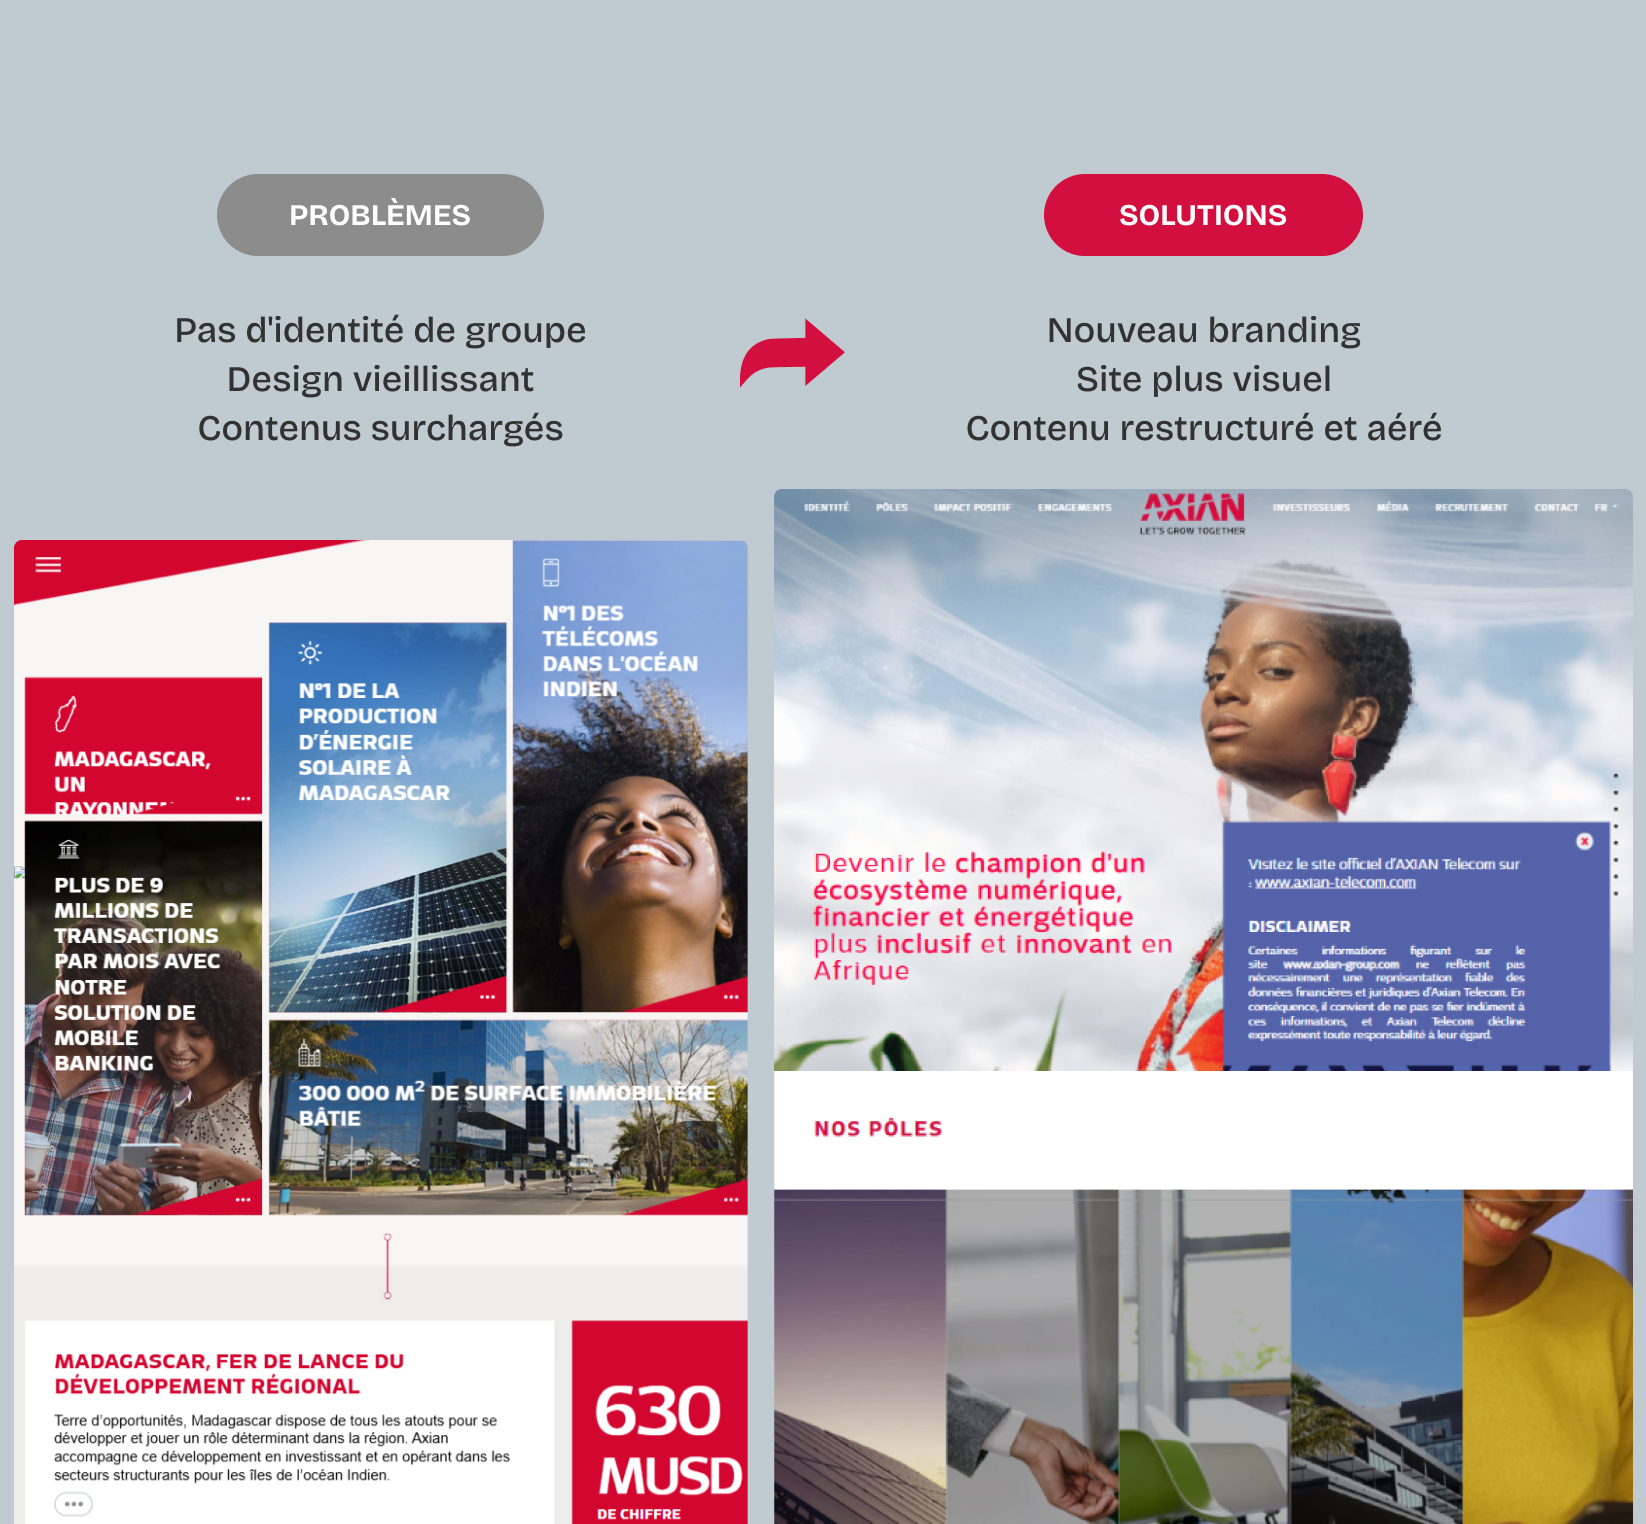
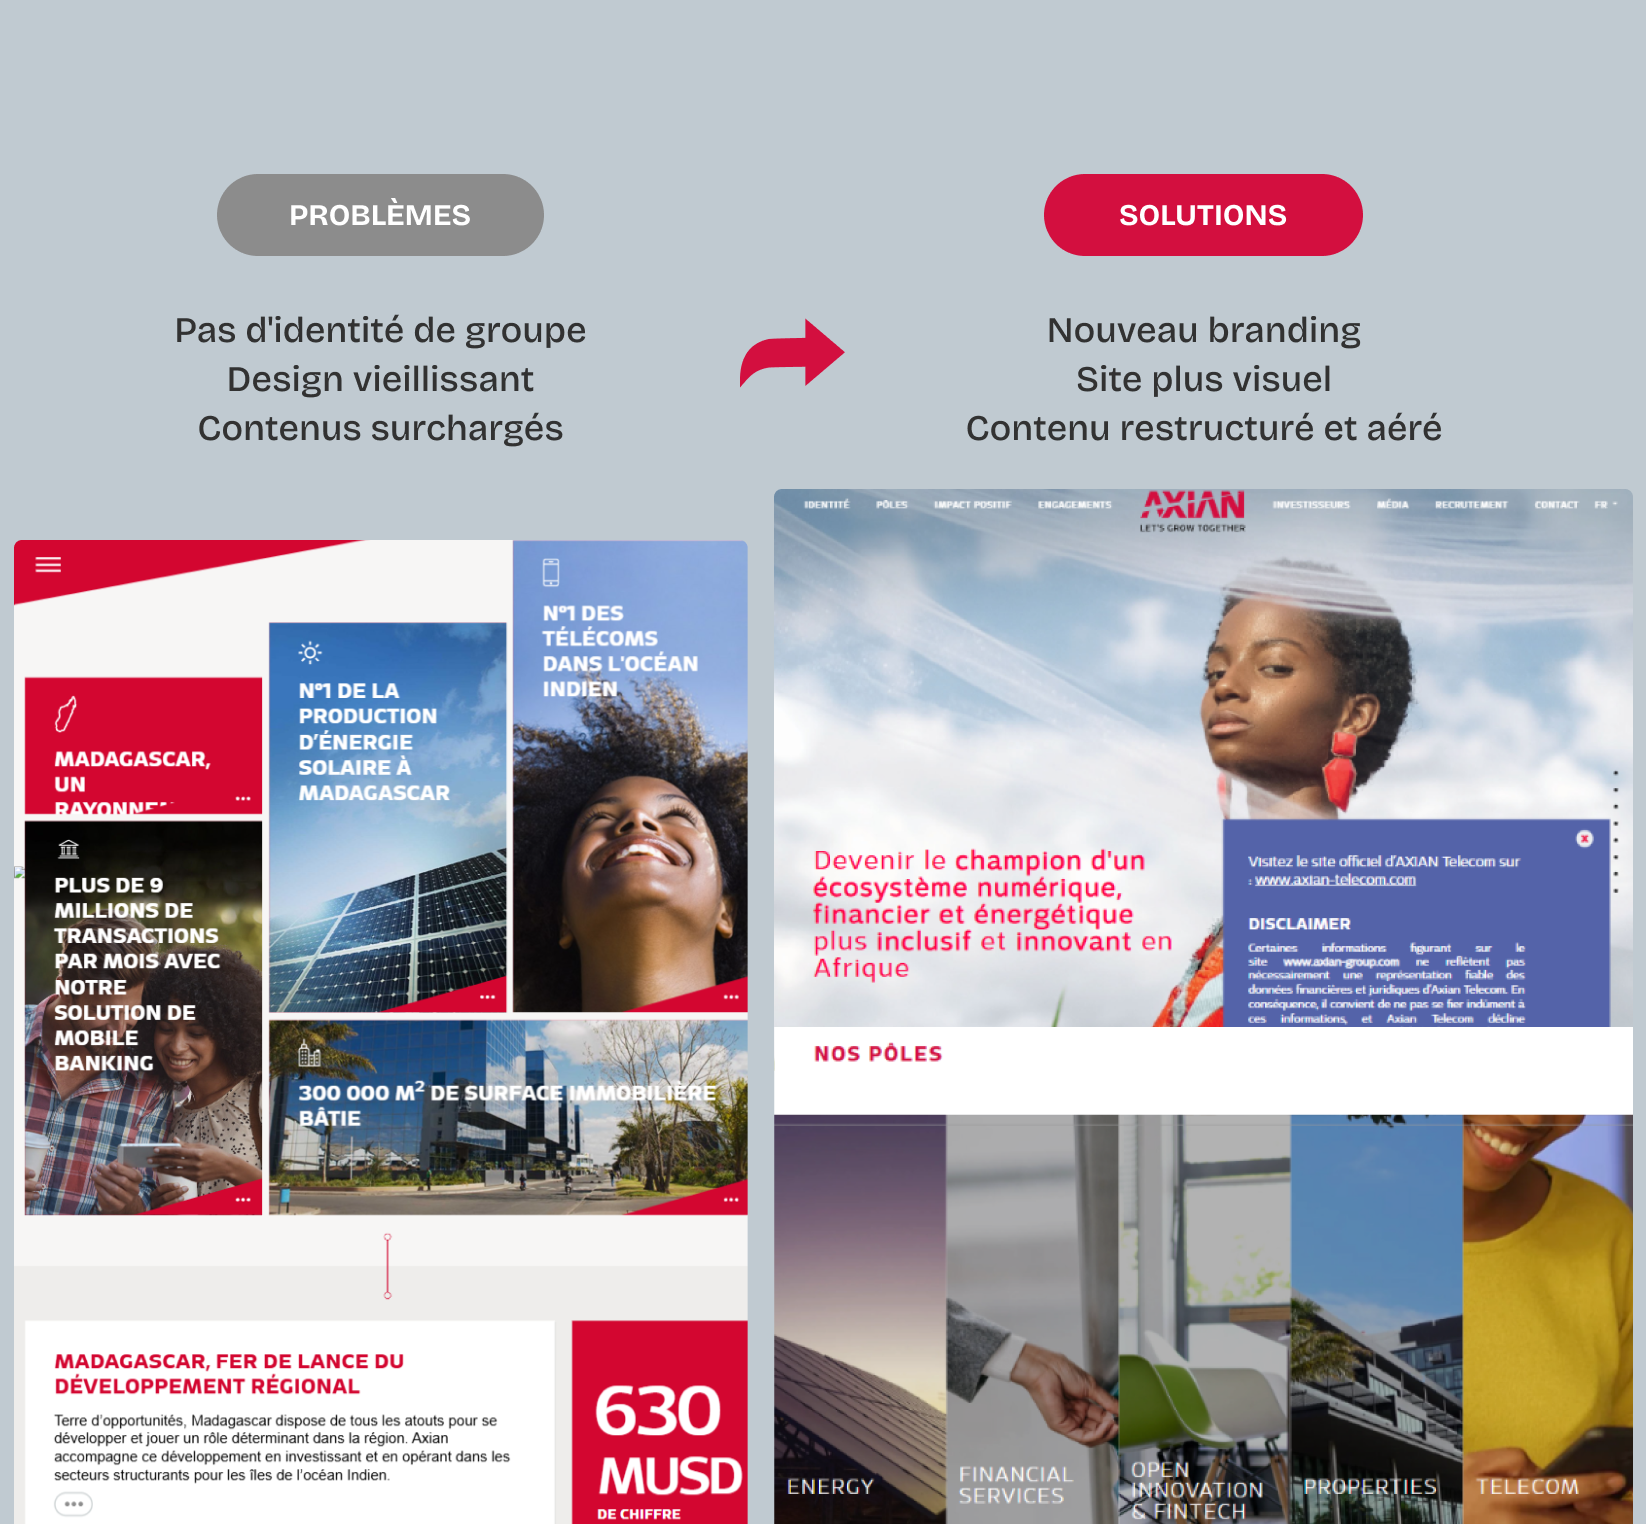
Changement de la phrase d'accroche

diff --git a/index.html b/index.html
@@ -5,7 +5,7 @@
     <meta name="viewport" content="width=device-width, initial-scale=1.0">
     
     <!-- SEO Meta Tags -->
-    <title>Jacob Radonirina - Product Designer UX/UI & Chef de Projet Digital</title>
+    <title>Jacob Radonirina - Product Designer UX/UI</title>
     <meta name="description" content="Product Designer freelance avec 10 ans d'expérience. Design UX/UI, design systems et stratégie produit pour PME et startups B2B. Portfolio Tango.lu, Axian Group. Basé au Luxembourg.">
     <meta name="keywords" content="product designer, UX UI designer, design system, freelance Luxembourg, chef de projet digital, design thinking, identité visuelle, audit UX, fintech design">
     <meta name="author" content="Jacob Radonirina">
@@ -291,7 +291,7 @@
                         </div>
                 </div>
             </div>
-              <!-- rIGHT SIDE -->
+              <!-- Right Side -->
             <div class="left-side">
                 <div class="content">
                     <h1>Transformez votre identité de marque en <span> expérience digitale mémorable</span></h1>
@@ -379,10 +379,29 @@
             <div class="portfolio-card" data-index="0">
                
                 <div class="portfolio-right">
-                    <div class="portfolio-image" id="mytango-1"><img src="Captures/tango b&A.png"/></div>
-                    <div class="portfolio-image hidden" id="mytango-2" style="background: linear-gradient(135deg, #667eea, #764ba2);"><img src="Captures/tangoapp-stats.png"/></div>
-                    <div class="portfolio-image hidden" id="mytango-3" style="background: linear-gradient(135deg, #f093fb, #f5576c);"><img src="Captures/tangoapp-enjoy.png"/></div>
-                    <div class="portfolio-image hidden" id="mytango-4" style="background: linear-gradient(135deg, #4facfe, #00f2fe);"><img src="Captures/Simplification d'un parcours-3.png"/></div>
+                    <div class="portfolio-image" id="mytango-1">
+                        <img src="Captures/tango b&A.png" 
+                        alt="comparaison avant/après refonte interface : 
+                        multiples swipes et boutons flous remplacés par switch interface clair et détails visibles 
+                        (écrans data de l'offre Tango smart M 16.7GB/20GB à gauche et offre Go mobile M 18GB/35GB à droite)" loading="lazy"/>
+                    </div>
+                    <div class="portfolio-image hidden" id="mytango-2" style="background: linear-gradient(135deg, #667eea, #764ba2);">
+                        <img src="Captures/tangoapp-stats.png" 
+                        alt="Infographie promotionnelle de l'application Tango : captures d'écran app mobile (accueil avec data 18GB, solde, La Roue),
+                         notes App Store 4.5 et Google Play 3.5 avec mentions 'Améliorée - Notes positives majoritaires'." loading="lazy"/>
+                    </div>
+                    <div class="portfolio-image hidden" id="mytango-3" style="background: linear-gradient(135deg, #f093fb, #f5576c);">
+                        <img src="Captures/tangoapp-enjoy.png" alt="Capture d'écran de l'application mobile Tango montrant l'écran d'optimisation du 
+                        jeu La Roue, avec trois étapes : 1. Simplification du parcours et clarification des messages d'onboarding, 
+                        2. Correction de la consistance visuelle, 3. Redirection vers le quiz La Roue après le parcours, 
+                        incluant des boutons comme Support, Opérations, Bills et Enjoy." loading="lazy"/>
+                    </div>
+                    <div class="portfolio-image hidden" id="mytango-4" style="background: linear-gradient(135deg, #4facfe, #00f2fe);">
+                        <img src="Captures/Simplification d'un parcours-3.png" 
+                        alt="Infographie du processus de conception de l'application Tango : cartographie des contraintes (icônes de users, graphs, code) 
+                        menant à une conception incrémentale (calendrier mensuel), avec impact validé sur la solution (gestion simplifiée des dysfonctionnements 
+                        pour les équipes et utilisateurs finaux, complexité non ressentie)" loading="lazy"/>
+                    </div>
                 </div>
                  <div class="portfolio-left">
                     <div>
@@ -419,10 +438,35 @@
             <div class="portfolio-card" data-index="1">
                 
                 <div class="portfolio-right">
-                    <div class="portfolio-image" id="tangoweb-1"><img src="Captures/tangoweb-1-avant.png"/></div>
-                    <div class="portfolio-image hidden" id="tangoweb-2" style="background: linear-gradient(135deg, #667eea, #764ba2);"><img src="Captures/tangoweb-2-après.png"/></div>
-                    <div class="portfolio-image hidden" id="tangoweb-3" style="background: linear-gradient(135deg, #667eea, #764ba2);"><img src="Captures/parcours-avant-après.png"/></div>
-                    <div class="portfolio-image hidden" id="tangoweb-4" style="background: linear-gradient(135deg, #667eea, #667eea);"><img src="Captures/tango-4.png"/></div>
+                    <div class="portfolio-image" id="tangoweb-1">
+                        <img src="Captures/tangoweb-1-avant.png"
+                        alt="Interface web Tango avant refonte : page offre Tango Smart pour abonnement téléphone 5G sans engagement, offre La Kidwatch (montre connectée) à gauche
+                        et encard de selection d'abonnement à droite choix abonnement Smart Unlimited+ à 
+                        80€ pour 50GB data (choix 50dB volume), en dessous congiguration de data, choix possibles (Illimités,  25Gb, 15GB, 7Gb 
+                        et 4GB), en dessous choix data incluse en europe (data 4GB en Europe +) boutons 'le plus de l'offre' et  'Choisir du forfait' 
+                        et engagement 24 mois" loading="lazy"/>
+                    </div>
+                    <div class="portfolio-image hidden" id="tangoweb-2" style="background: linear-gradient(135deg, #667eea, #764ba2);">
+                        <img src="Captures/tangoweb-2-après.png"
+                        alr="Interface web Tango après refonte pour offre GO Mobile : forfait GO Mobile Unlimited extra à 60€ avec data illimité 
+                        + 80 GB de volumes en Europe, USA et Canad (autres choix illimité +70BG en europe, 30GB,20GB et 5GB à prix décroissants), 
+                        choix sans smartphone, options déjà client Tango fibre (30BG en plus et remise de 3€/mois), exclusivités digitales,
+                         bouton rose 'Choisir ce forfait'" loading="lazy"/>
+                    </div>
+                    <div class="portfolio-image hidden" id="tangoweb-3" style="background: linear-gradient(135deg, #667eea, #764ba2);">
+                        <img src="Captures/parcours-avant-après.png"
+                        alt="Comparaison parcours d'inscription Tango avant/après refonte : en haut (avant), étapes Partner - 
+                        Coordonnées/Contrat - Livraison/Installation - Récapitulatif/Paiement - Confirmé (cercles bleus connectés) ; 
+                        en bas (après), étapes Adresse - Modem - Installation - Confirmation (cercles bleus avec coche finale). 
+                        Diagramme linéaire illustrant simplification du flux utilisateur" loading="lazy"/>
+                    </div>
+                    <div class="portfolio-image hidden" id="tangoweb-4" style="background: linear-gradient(135deg, #667eea, #667eea);">
+                        <img src="Captures/tango-4.png"
+                        alt="Design system Tango : checklist validée (Consistant, Scalable, Bien nommé, Organisé, App/site/web self-care) avec menu Spacing/Border Radius ; 
+                        exemples boutons variés (bleus, verts, blancs) ; palette couleurs UI structurée en grille 
+                        (nuances bleu/vert/rose/jaune/violet/orange/gris 
+                        pour états primary/secondary/success/warning/error)" loading="lazy"/>
+                    </div>
                 </div>
 
                  <div class="portfolio-left">
@@ -459,10 +503,31 @@
             <!-- Card 3: Axian -->
             <div class="portfolio-card" data-index="2">
                <div class="portfolio-right">
-                    <div class="portfolio-image" id="axian-1" style="background: #D30F3F;"><img src="Captures/Axian-2.png"/></div>
-                    <div class="portfolio-image hidden" id="axian-2" style="background: #D30F3F;"><img src="Captures/Axian.png"/></div>
-                    <div class="portfolio-image hidden" id="axian-3" style="background: #C0CAD1;"><img src="Captures/Axian-website.png"/></div>
-                    <div class="portfolio-image hidden" id="axian-4" style="background: #151D42;"><img src="Captures/créatives.jpg"/></div>
+                    <div class="portfolio-image" id="axian-1" style="background: #D30F3F;">
+                        <img src="Captures/Axian-2.png"
+                        alt="Poster corporate Axian Group: logo rouge, vision business 'Devenir le champion d'un écosystème numérique, 
+                        inclusif, finançant et énergisant plus audacieux en Afrique' ; mots-clés Audace, Fier, Disruptif ; 
+                        grille photos portraits africains (femme cheveux crépus bouclés yeux proches, homme torse nu levant bras, 
+                        couple moderne, homme masque facial, motifs wax, lampe lanternes main)" loading="lazy"/>
+                    </div>
+                    <div class="portfolio-image hidden" id="axian-2" style="background: #D30F3F;">
+                        <img src="Captures/Axian.png"
+                        alt="Mockups superposés sites web Axian et filiales : 'AXIAN +5 secteurs' avec logos Axian University et Fondation Axian, 
+                        captures pages Site web Axian, Axian univesity (Catalogue de formation homme contemplatif), Fondation Axian (Agir pour transformer avec enfants, sites colorés 
+                        jaune/bleu/rouge avec groupes personnes Afrique). 
+                        Composition visuelle illustrant écosystème digital inclusif" loading="lazy"/>
+                    </div>
+                    <div class="portfolio-image hidden" id="axian-3" style="background: #C0CAD1;"><img src="Captures/Axian-website.png"
+                        alt="Infographie refonte site Axian : colonne grise 'Problèmes' (Pas d'identité groupe, Design vieillot, Contenus surchargés) avec 
+                        captures sites filiales (Telco Madagascar, Énergie, Madagscar Fibre Océan, Plus de 2000 sites) 
+                        → colonne rouge 'Solutions' (Nouveau branding, Contenu site plus structuré et aéré) ; captures redesign moderne (Axian 'Devenir le champion d'un écosystème 
+                        numérique inclusif et innovant en Afrique', pôles restructurées)" loading="lazy"/>
+                    </div>
+                    <div class="portfolio-image hidden" id="axian-4" style="background: #151D42;"><img src="Captures/créatives.jpg"
+                        alt="Fond bleu marine 'CRÉATRICES PUBLIQUES' avec étoile blanche : 'Meilleures créations conçues' ; section 'ÉDITIONS 2021-22' 
+                        listant prix : Campagne digitale 2022 (1er Prix), Rapport Annuel 2021 (1er Prix), Stratégie Com Telecom 2022 (2ème Prix), 
+                        Rapport Impact 2020 (1er Prix), Branding Axian 2021 (3ème Prix)" loading="lazy"/>
+                    </div>
                 </div>
 
                  <div class="portfolio-left">
@@ -494,9 +559,20 @@
             <div class="portfolio-card" data-index="3">
                
                 <div class="portfolio-right">
-                    <div class="portfolio-image" id="silva-1" style="background:#EAECF2;"><img src="Captures/Silva-identity.png"/></div>
-                    <div class="portfolio-image hidden" id="silva-2" style="background: #E4EAEF;"><img src="Captures/Silva-Avant-après.png"/></div>
-                    <div class="portfolio-image hidden" id="silva-3" style="background: #F4F4EE;"><img src="Captures/Silva-design-system.png"/></div>
+                    <div class="portfolio-image" id="silva-1" style="background:#EAECF2;"><img src="Captures/Silva-identity.png"
+                        alt="Brand identity Silva Paris : logos minimalistes 'Artisan Imprimeur' avec icônes ciseaux/rouleau pinceau ; nom 'SILVA' en typo 
+                        serif beige/marron ; palette couleurs (beige, blanc, noir, marron) étiquetée 'Paris' ; 
+                        mockup laptop ouvert sur site Silva (intérieur luxueux : salon style haussmannien boiseries, lustre design, plantes, canapés beiges, cheminée)" loading="lazy"/>
+                    </div>
+                    <div class="portfolio-image hidden" id="silva-2" style="background: #E4EAEF;"><img src="Captures/Silva-Avant-après.png"
+                        alt="Comparaison refonte site Silva : colonne gauche 'AVANT' (Savoir-faire noyés scrolls, L'art de la confection perdu, 
+                        L'Habillage d'une assise perfectible) avec captures pages chambres/salons surchargées ❌ ; colonne droite 'APRÈS' (Vue d'ensemble immédiate carrousel réalisations 
+                        navigation immersive, Savoir-Faire d'Excellence, Des collaborations uniques) avec captures catalogues meubles/chaises mains sur tissus/carrelages" loading="lazy"/>
+                    </div>
+                    <div class="portfolio-image hidden" id="silva-3" style="background: #F4F4EE;"><img src="Captures/Silva-design-system.png"
+                       alt="Design system Silva : checklist validée (Consistant, Scalable, Bien nommé, Organisé, App/site/web self-care) ; grille palettes couleurs 'Couleurs Primaires' et 'Secondaires' 
+                       (nuances beige/marron/beige clair/gris 100-900) avec échantillons ; vignettes icônes/display (étoiles, lignes, formes géométriques)" loading="lazy"/>
+                    </div>
                 </div>
                 <div class="portfolio-left">
                     <div>
@@ -586,8 +662,6 @@
                 <div class="additional-offer">
                     <h3>Options additionnelles</h3>
                     <ul>
-                        <li>Écrans supplémentaires <strong style="color: var(--primary);">300€/écran</strong></li>
-                        <li>Tests utilisateurs <strong style="color: var(--primary);">500€</strong></li>
                         <li>Identité visuelle seule <strong style="color: var(--primary);">3 000€</strong></li>
                         <li>Maintenance design <strong style="color: var(--primary);">800€/mois</strong></li>
                     </ul>
@@ -1170,7 +1244,7 @@ function goToSlide(index) {
             // Initialize
             updateNavigationButtons();
 
-            emailjs.init("69fgSb-btkXkWSBtI");  // ← Dashboard EmailJS
+            emailjs.init("69fgSb-btkXkWSBtI");  // 
 
             document.getElementById('contactForm').addEventListener('submit', function(e) {
                 e.preventDefault();
